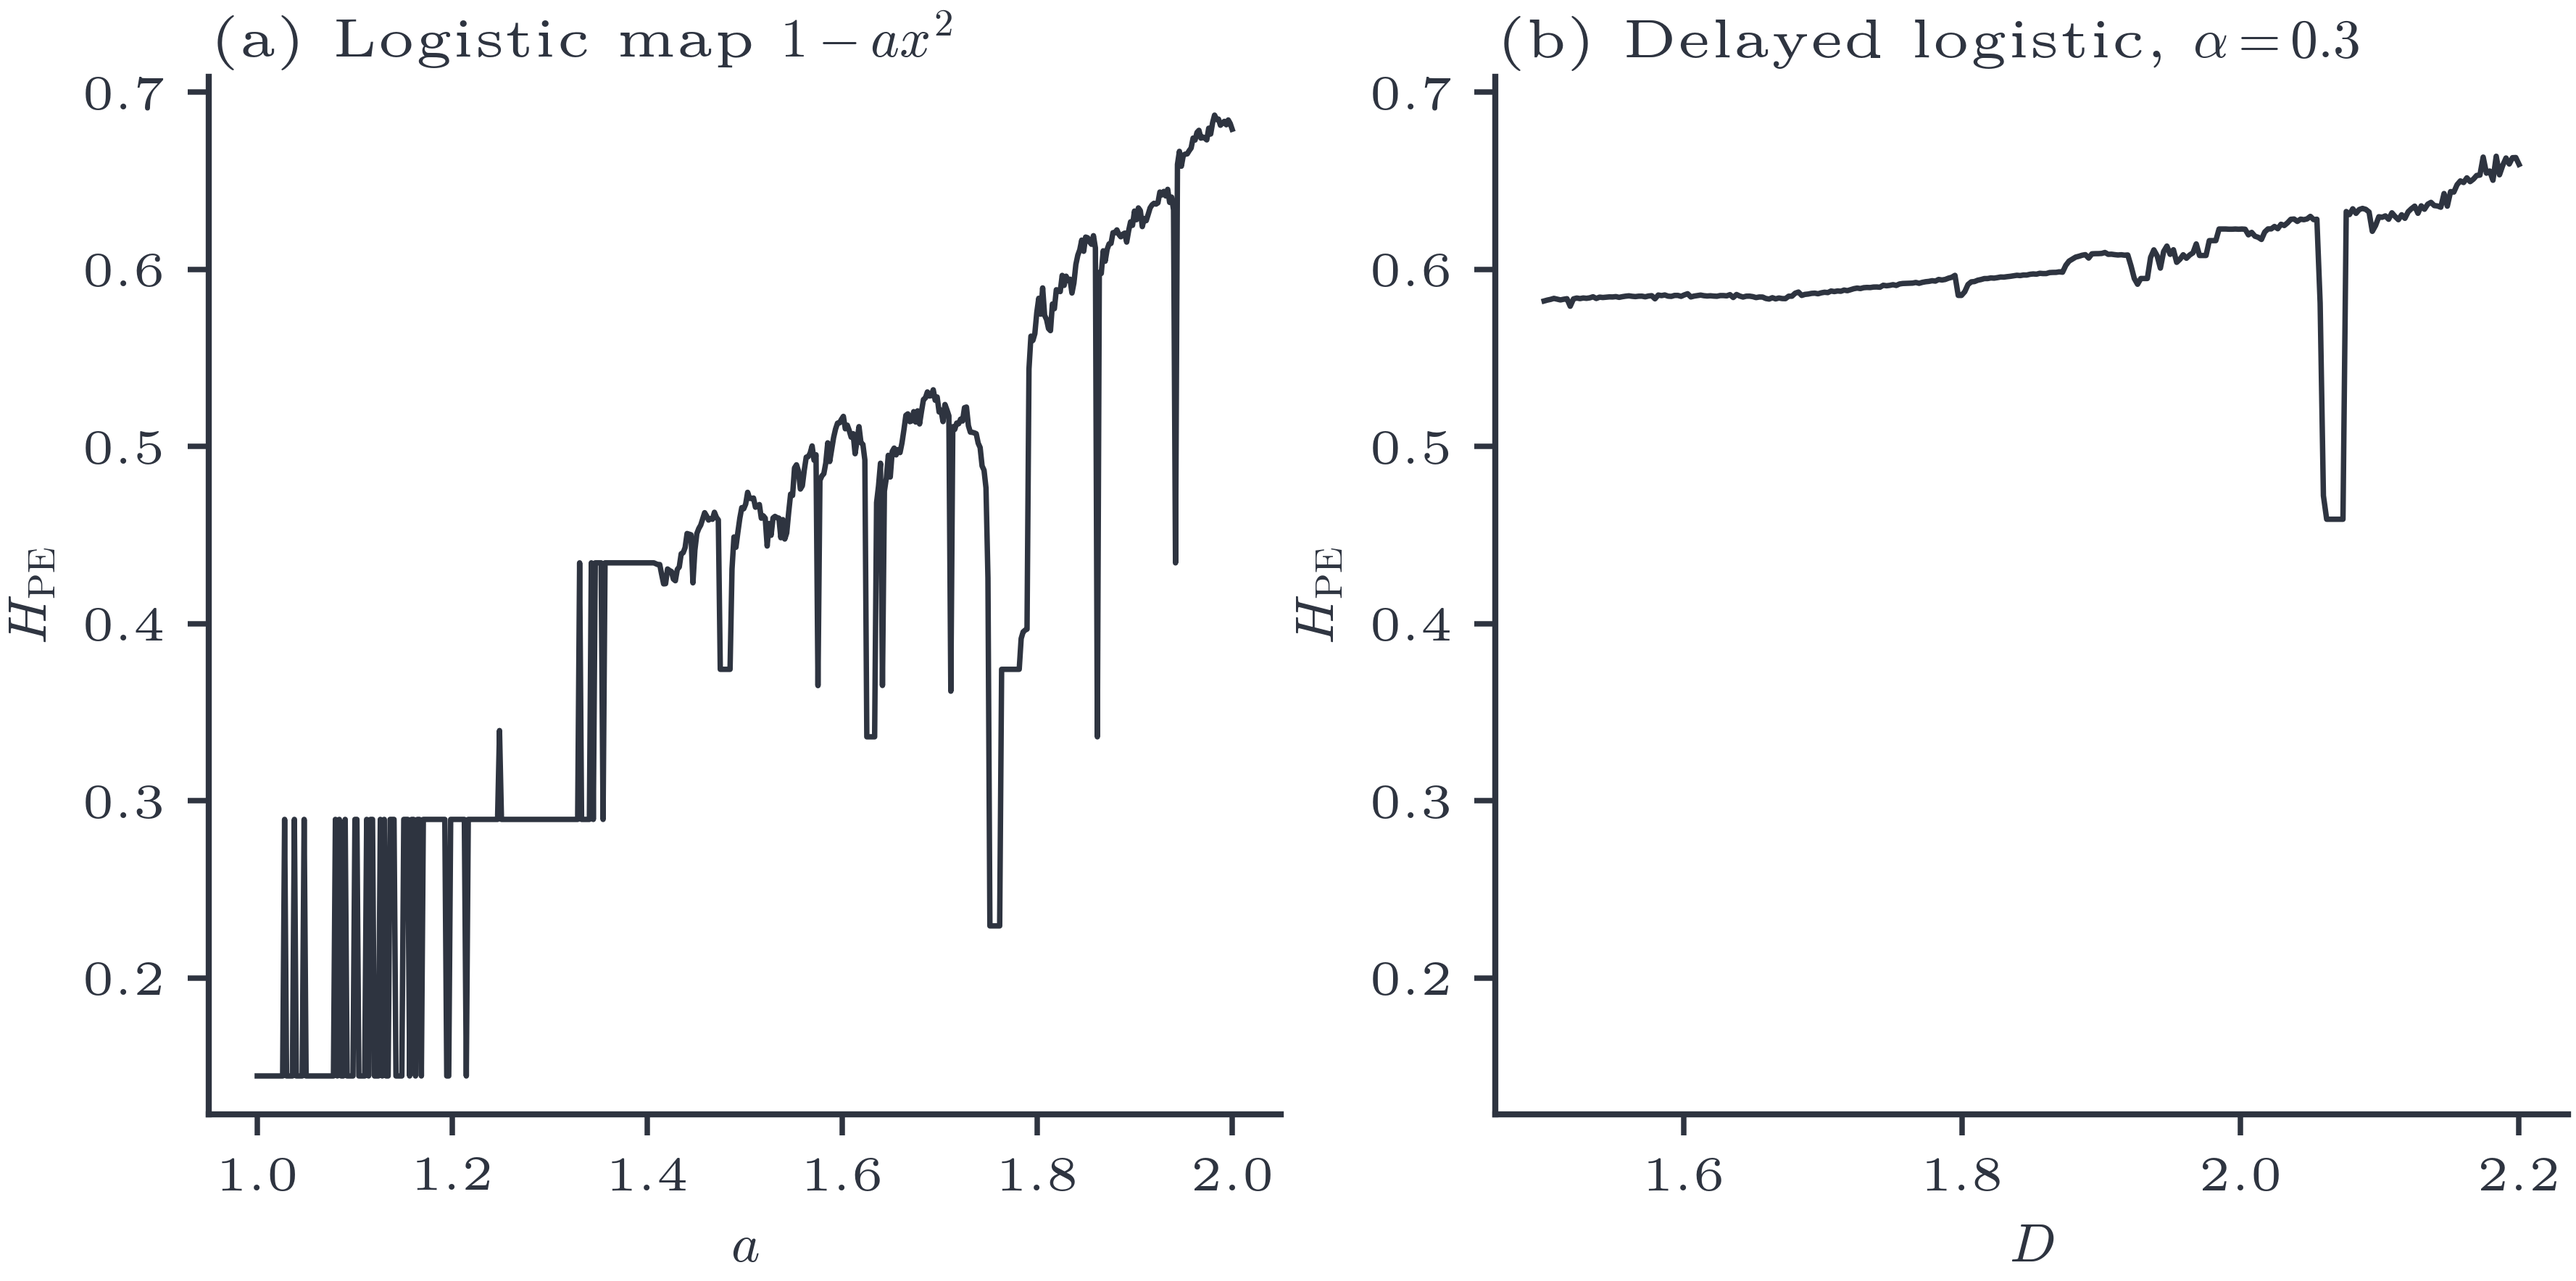
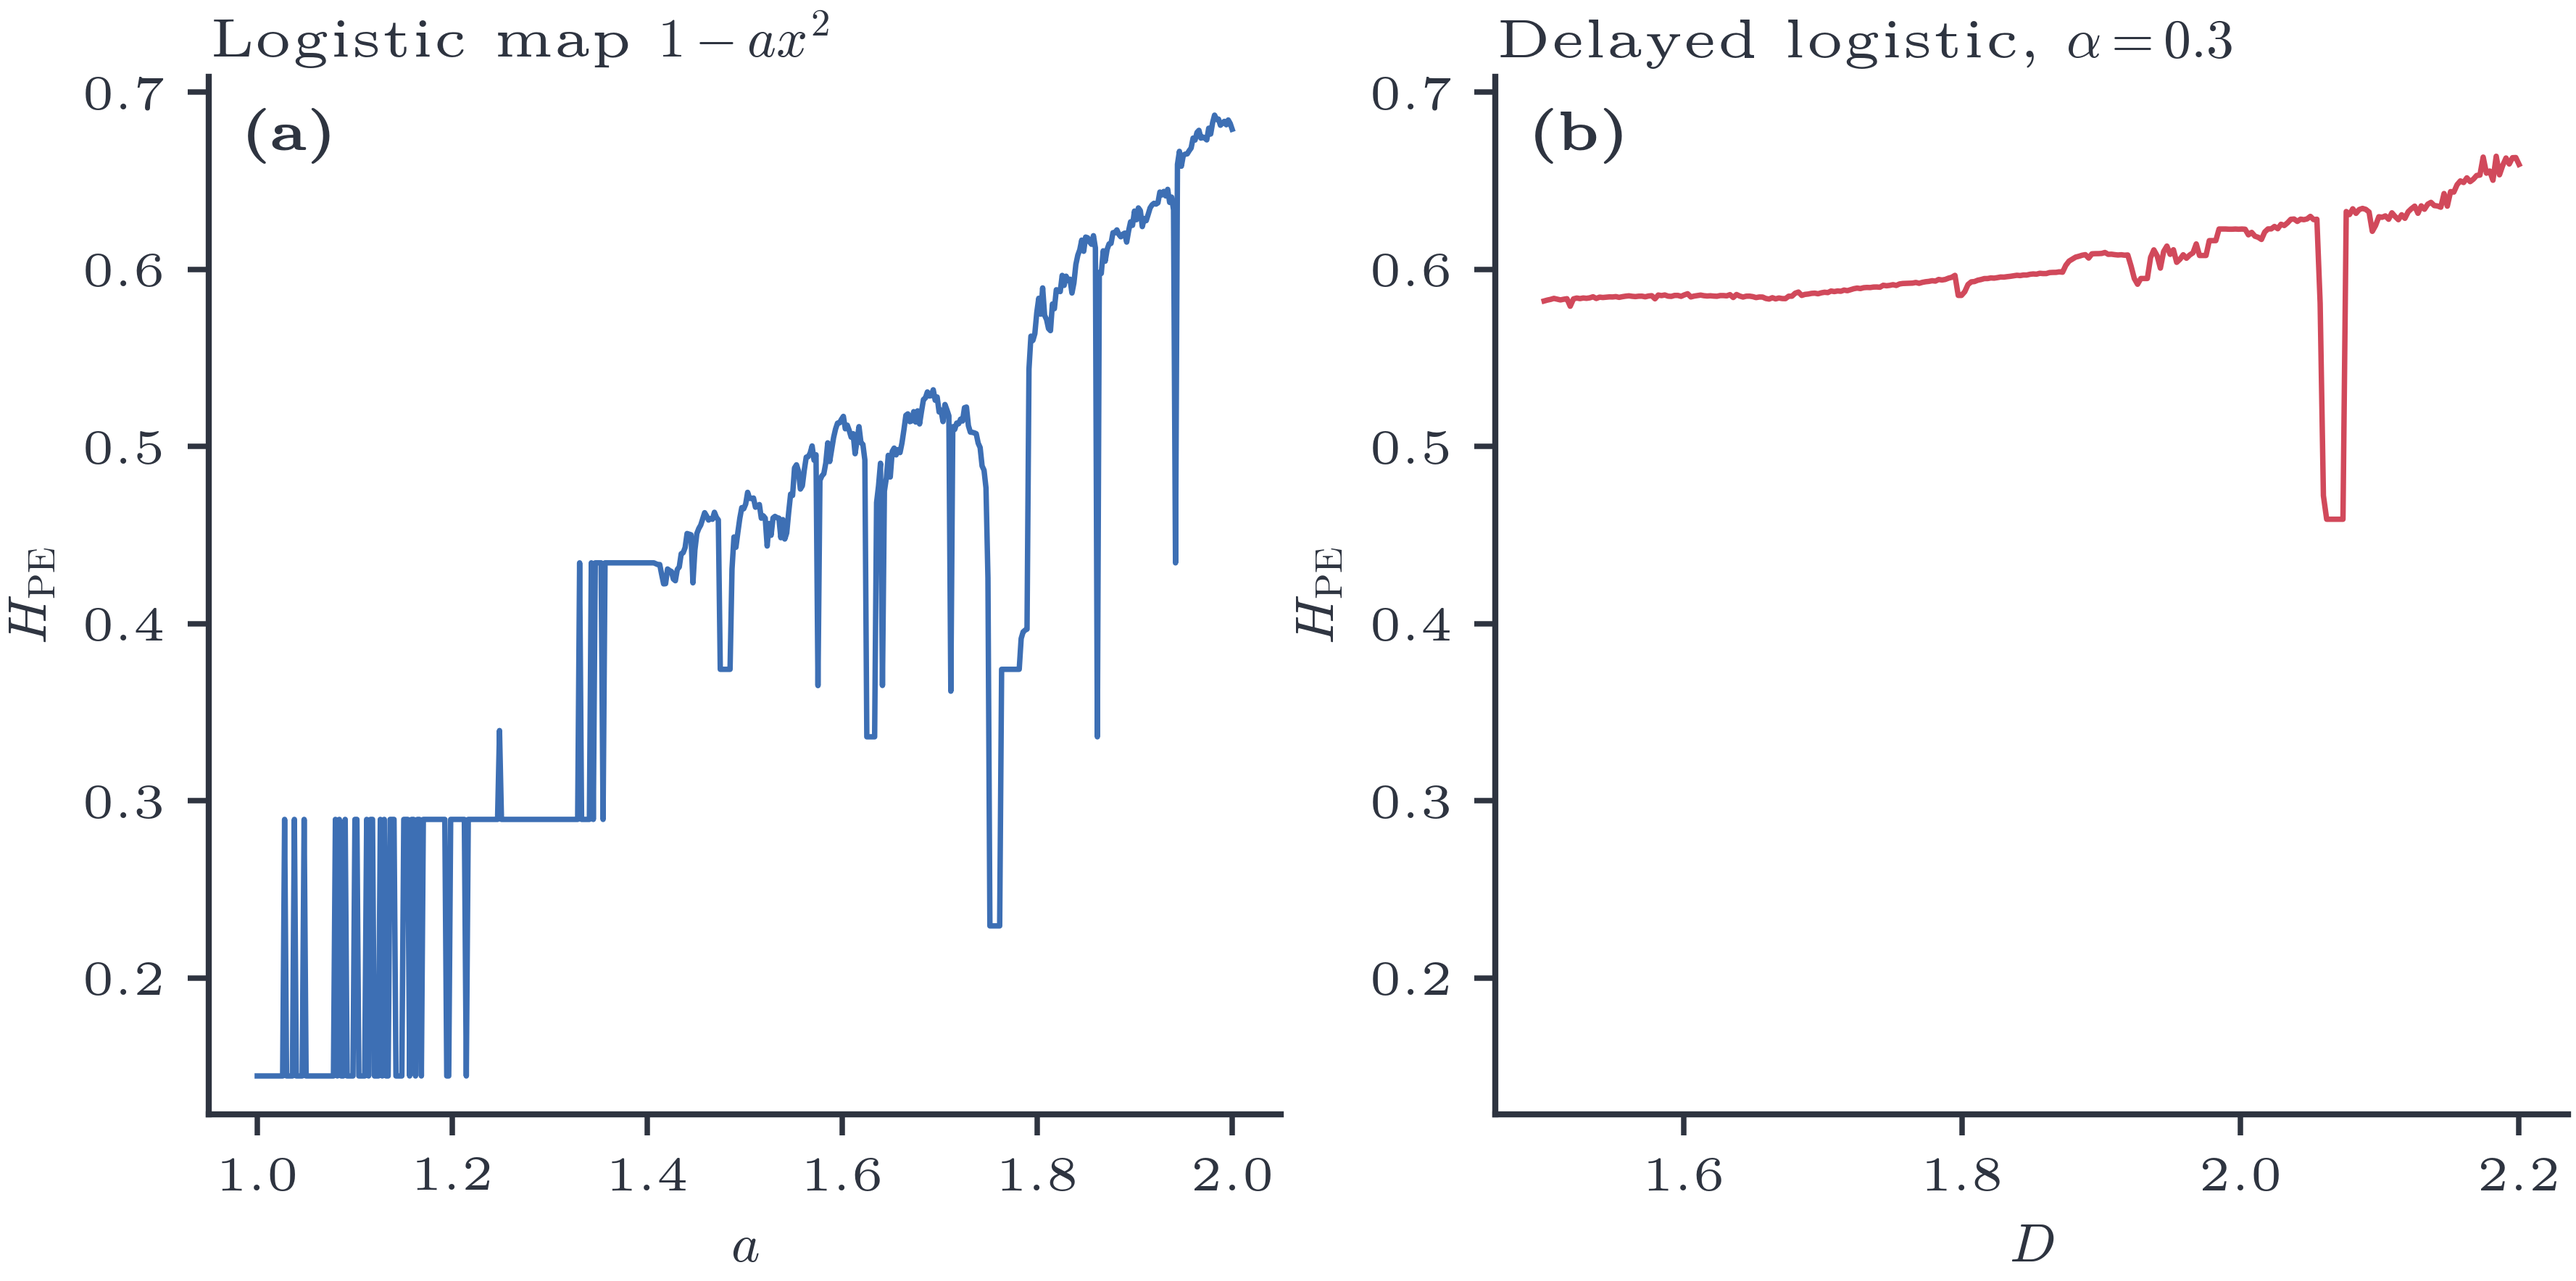
style(sec11): apply figure grammar — panel labels, system colours
compare_all.py: rqa_measures gets (a)-(d) labels; complexity-entropy + permutation
entropy bind series to system_color (logistic=blue, delayed=vermilion); SALI/test01
thresholds -> grey reference_line. Presentation only; npz unchanged.

diff --git a/src/dynachaos/diagnostics/compare_all.py b/src/dynachaos/diagnostics/compare_all.py
@@ -259,14 +259,14 @@ def plot_01_test(data):
     """Plot 0-1 test K vs a for the logistic map."""
     import matplotlib.pyplot as plt
 
-    from dynachaos.utils.style import COLORS, apply_axes_polish, figure_spec, setup
+    from dynachaos.utils.style import COLORS, apply_axes_polish, figure_spec, reference_line, setup
 
     setup()
 
     spec = figure_spec("double")
     fig, ax = plt.subplots(figsize=spec.figsize)
     ax.plot(data["a"], data["K"], ".", ms=0.5, rasterized=True, color=COLORS["black"])
-    ax.axhline(0.5, color=COLORS["red"], lw=0.7, ls="--", alpha=0.55)
+    reference_line(ax, 0.5, lw=0.7, alpha=0.55)
     ax.set_xlabel(r"Nonlinearity $a$")
     ax.set_ylabel(r"$K_{01}$ (0-1 test)")
     ax.set_title(r"0-1 test for chaos: logistic map $f(x) = 1 - ax^2$", loc="left")
@@ -277,14 +277,14 @@ def plot_01_test(data):
         0.6,
         "$K_{01} \\approx 1$: chaos",
         fontsize=spec.tick_size,
-        color=COLORS["red"],
+        color=COLORS["grey"],
     )
     ax.text(
         1.1,
         0.15,
         "$K_{01} \\approx 0$: regular",
         fontsize=spec.tick_size,
-        color=COLORS["blue"],
+        color=COLORS["grey"],
     )
 
     fig.savefig(TEST01_PNG, dpi=600, bbox_inches="tight")
@@ -303,6 +303,7 @@ def plot_sali(data):
         figure_spec,
         finalize_legend,
         marker_for,
+        reference_line,
         setup,
     )
 
@@ -340,6 +341,7 @@ def plot_sali(data):
     )
     apply_axes_polish(ax, kind="double", title_loc="left")
     ax.set_ylim(1e-16, 10)
+    reference_line(ax, 1e-16, lw=0.7, alpha=0.55)
     finalize_legend(ax, kind="double", loc="lower left")
 
     fig.savefig(SALI_PNG, dpi=600, bbox_inches="tight")
@@ -351,7 +353,13 @@ def plot_permutation_entropy(data):
     """Plot permutation entropy sweeps."""
     import matplotlib.pyplot as plt
 
-    from dynachaos.utils.style import COLORS, apply_axes_polish, figure_spec, setup
+    from dynachaos.utils.style import (
+        apply_axes_polish,
+        figure_spec,
+        panel_label,
+        setup,
+        system_color,
+    )
 
     setup()
 
@@ -360,19 +368,33 @@ def plot_permutation_entropy(data):
     h_all = np.concatenate([data["H_logistic"], data["H_delayed"]])
     y_pad = 0.04 * (h_all.max() - h_all.min())
 
-    ax1.plot(data["a"], data["H_logistic"], color=COLORS["black"], lw=0.9, rasterized=True)
+    ax1.plot(
+        data["a"],
+        data["H_logistic"],
+        color=system_color("logistic"),
+        lw=0.9,
+        rasterized=True,
+    )
     ax1.set_xlabel(r"$a$")
     ax1.set_ylabel(r"$H_\mathrm{PE}$")
-    ax1.set_title(r"(a) Logistic map $1-ax^2$", loc="left")
+    ax1.set_title(r"Logistic map $1-ax^2$", loc="left")
     ax1.set_ylim(h_all.min() - y_pad, h_all.max() + y_pad)
     apply_axes_polish(ax1, kind="double", title_loc="left", grid=False)
+    panel_label(ax1, "(a)")
 
-    ax2.plot(data["D"], data["H_delayed"], color=COLORS["black"], lw=0.9, rasterized=True)
+    ax2.plot(
+        data["D"],
+        data["H_delayed"],
+        color=system_color("delayed_logistic"),
+        lw=0.9,
+        rasterized=True,
+    )
     ax2.set_xlabel(r"$D$")
     ax2.set_ylabel(r"$H_\mathrm{PE}$")
-    ax2.set_title(r"(b) Delayed logistic, $\alpha = 0.3$", loc="left")
+    ax2.set_title(r"Delayed logistic, $\alpha = 0.3$", loc="left")
     ax2.set_ylim(h_all.min() - y_pad, h_all.max() + y_pad)
     apply_axes_polish(ax2, kind="double", title_loc="left", grid=False)
+    panel_label(ax2, "(b)")
 
     fig.savefig(PE_PNG, dpi=600, bbox_inches="tight")
     plt.close(fig)
@@ -384,11 +406,11 @@ def plot_complexity_entropy(data):
     import matplotlib.pyplot as plt
 
     from dynachaos.utils.style import (
-        COLORS,
         apply_axes_polish,
         figure_spec,
         finalize_legend,
         setup,
+        system_color,
     )
 
     setup()
@@ -401,7 +423,7 @@ def plot_complexity_entropy(data):
         data["C_logistic"],
         s=8,
         alpha=0.55,
-        c=COLORS["blue"],
+        c=system_color("logistic"),
         label="Logistic map",
         rasterized=True,
     )
@@ -410,7 +432,7 @@ def plot_complexity_entropy(data):
         data["C_delayed"],
         s=8,
         alpha=0.55,
-        c=COLORS["red"],
+        c=system_color("delayed_logistic"),
         label="Delayed logistic",
         rasterized=True,
     )
@@ -437,7 +459,7 @@ def plot_rqa(data):
     """Plot RQA measures vs D for the delayed logistic."""
     import matplotlib.pyplot as plt
 
-    from dynachaos.utils.style import COLORS, apply_axes_polish, figure_spec, setup
+    from dynachaos.utils.style import COLORS, apply_axes_polish, figure_spec, panel_label, setup
 
     setup()
 
@@ -445,30 +467,6 @@ def plot_rqa(data):
 
     spec = figure_spec("grid")
     fig, axes = plt.subplots(2, 2, figsize=spec.figsize, sharex=True)
-
-    axes[0, 0].plot(D, data["RR"], color=COLORS["black"], linestyle="-", lw=1.0)
-    axes[0, 0].set_ylabel("RR")
-    axes[0, 0].set_title("Recurrence rate", loc="left")
-    apply_axes_polish(axes[0, 0], kind="grid", title_loc="left")
-
-    axes[0, 1].plot(D, data["DET"], color=COLORS["black"], linestyle="-", lw=1.0)
-    axes[0, 1].set_ylabel("DET")
-    axes[0, 1].set_title("Determinism", loc="left")
-    apply_axes_polish(axes[0, 1], kind="grid", title_loc="left")
-
-    axes[1, 0].plot(D, data["LAM"], color=COLORS["black"], linestyle="-", lw=1.0)
-    axes[1, 0].set_ylabel("LAM")
-    axes[1, 0].set_xlabel(r"$D$")
-    axes[1, 0].set_title("Laminarity", loc="left")
-    apply_axes_polish(axes[1, 0], kind="grid", title_loc="left")
-
-    axes[1, 1].plot(D, data["ENTR"], color=COLORS["black"], linestyle="-", lw=1.0)
-    axes[1, 1].set_ylabel("ENTR")
-    axes[1, 1].set_xlabel(r"$D$")
-    axes[1, 1].set_title("Entropy of diag. lines", loc="left")
-    apply_axes_polish(axes[1, 1], kind="grid", title_loc="left")
-
-    fig.subplots_adjust(wspace=0.24, hspace=0.34)
     fig.suptitle(
         "RQA: delayed logistic map, $\\alpha = 0.3$",
         x=0.01,
@@ -476,6 +474,34 @@ def plot_rqa(data):
         y=1.02,
         fontsize=spec.title_size,
     )
+
+    axes[0, 0].plot(D, data["RR"], color=COLORS["black"], linestyle="-", lw=1.0)
+    axes[0, 0].set_ylabel("RR")
+    axes[0, 0].set_title("Recurrence rate", loc="left")
+    apply_axes_polish(axes[0, 0], kind="grid", title_loc="left")
+    panel_label(axes[0, 0], "(a)")
+
+    axes[0, 1].plot(D, data["DET"], color=COLORS["black"], linestyle="-", lw=1.0)
+    axes[0, 1].set_ylabel("DET")
+    axes[0, 1].set_title("Determinism", loc="left")
+    apply_axes_polish(axes[0, 1], kind="grid", title_loc="left")
+    panel_label(axes[0, 1], "(b)")
+
+    axes[1, 0].plot(D, data["LAM"], color=COLORS["black"], linestyle="-", lw=1.0)
+    axes[1, 0].set_ylabel("LAM")
+    axes[1, 0].set_xlabel(r"$D$")
+    axes[1, 0].set_title("Laminarity", loc="left")
+    apply_axes_polish(axes[1, 0], kind="grid", title_loc="left")
+    panel_label(axes[1, 0], "(c)")
+
+    axes[1, 1].plot(D, data["ENTR"], color=COLORS["black"], linestyle="-", lw=1.0)
+    axes[1, 1].set_ylabel("ENTR")
+    axes[1, 1].set_xlabel(r"$D$")
+    axes[1, 1].set_title("Entropy of diag. lines", loc="left")
+    apply_axes_polish(axes[1, 1], kind="grid", title_loc="left")
+    panel_label(axes[1, 1], "(d)")
+
+    fig.subplots_adjust(wspace=0.24, hspace=0.34)
     fig.savefig(RQA_PNG, dpi=600, bbox_inches="tight")
     plt.close(fig)
     print(f"Saved {RQA_PNG}")
